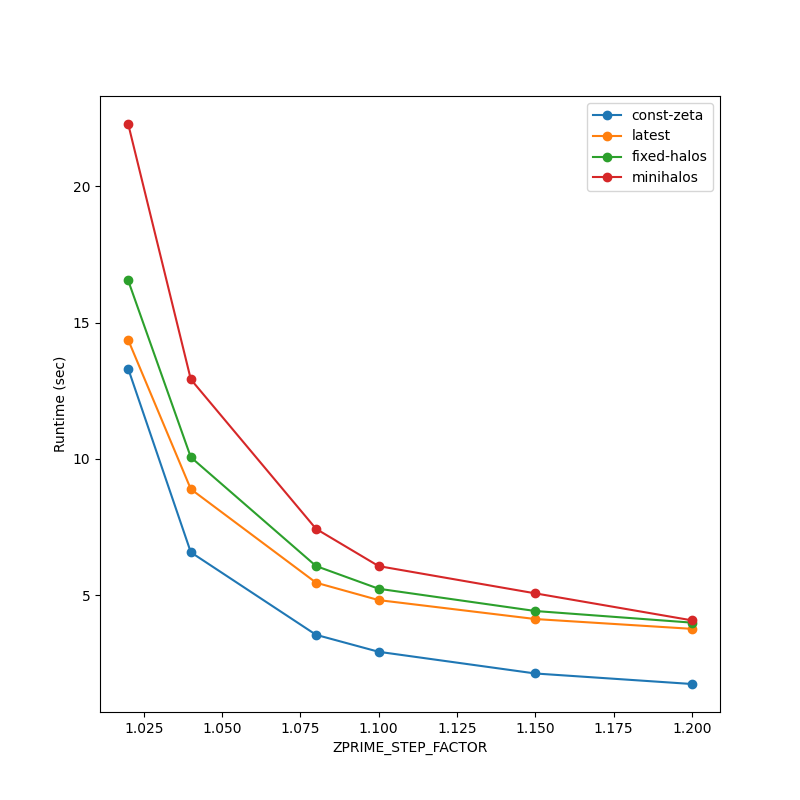
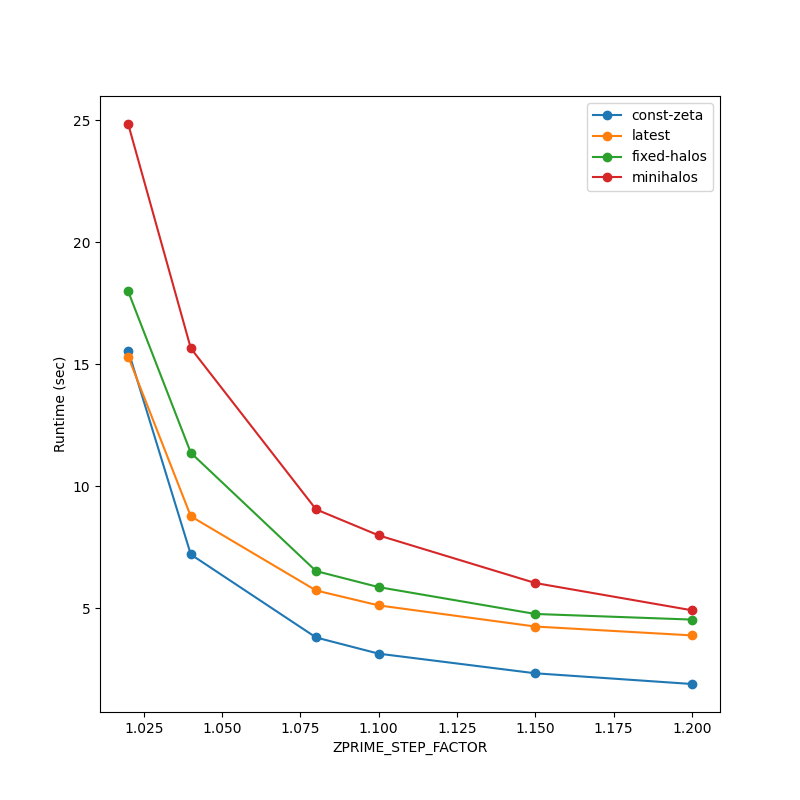
made some fixes to pass the tests after the merger with main. Also updated performance plots after the merger with main

diff --git a/src/py21cmfast/drivers/_param_config.py b/src/py21cmfast/drivers/_param_config.py
@@ -21,7 +21,13 @@ from ..io import h5
 from ..io.caching import OutputCache
 from ..utils import recursive_difference
 from ..wrapper.inputs import InputParameters
-from ..wrapper.outputs import HaloCatalog, OutputStruct, OutputStructZ, _HashType
+from ..wrapper.outputs import (
+    HaloCatalog,
+    OutputStruct,
+    OutputStructZ,
+    PerturbedHaloCatalog,
+    _HashType,
+)
 
 logger = logging.getLogger(__name__)
 
@@ -666,7 +672,7 @@ class _OutputStructComputationInspect:
 
         # First check whether the boxes already exist.
         if issubclass(self._kls, OutputStructZ):
-            if issubclass(self._kls, HaloCatalog):
+            if issubclass(self._kls, HaloCatalog | PerturbedHaloCatalog):
                 # We need to provide init_manager because there is a call to a C function when doing HaloCatalog.new()
                 obj = self._kls.new(
                     inputs=inputs,

diff --git a/src/py21cmfast/wrapper/outputs.py b/src/py21cmfast/wrapper/outputs.py
@@ -924,6 +924,7 @@ class PerturbedHaloCatalog(OutputStructZ):
         All other parameters are passed through to the :class:`PerturbedHaloCatalog`
         constructor.
         """
+        from ..drivers._param_config import _InitManager
         from .cfuncs import get_halo_catalog_buffer_size
 
         if kw.get("dummy", False):
@@ -932,7 +933,7 @@ class PerturbedHaloCatalog(OutputStructZ):
             buffer_size = get_halo_catalog_buffer_size(
                 redshift=redshift,
                 inputs=inputs,
-                free_cosmo_tables=kw.get("free_cosmo_tables", False),
+                init_manager=kw.pop("init_manager", _InitManager(inputs=inputs)),
             )
 
         out = {
